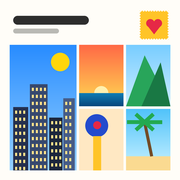
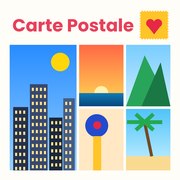
CARTE POSTALE : icône avec l'inscription Carte Postale
Claude-Session: https://claude.ai/code/session_0198c1DikNDwg2gGu6PoH5Qf

Changed region(s): [[0.0556, 0.0833, 0.75, 0.1944]]

diff --git a/carte-postale/index.html b/carte-postale/index.html
@@ -9,8 +9,8 @@
 <meta name="apple-mobile-web-app-status-bar-style" content="black-translucent">
 <meta name="apple-mobile-web-app-title" content="CARTE POSTALE">
 <meta name="theme-color" content="#131518">
-<link rel="apple-touch-icon" href="icon-180.png?v=3">
-<link rel="icon" type="image/png" href="icon-192.png?v=3">
+<link rel="apple-touch-icon" href="icon-180.png?v=4">
+<link rel="icon" type="image/png" href="icon-192.png?v=4">
 <link rel="manifest" href="manifest.json">
 <style>
 :root{--bg:#131518;--panel:#1c1f24;--panel2:#262a31;--line:#353b45;--text:#eaedf0;--muted:#98a1ac;--accent:#f0b429;--accent-ink:#1d1600;
@@ -90,7 +90,7 @@ section h2{font-size:12px;letter-spacing:.8px;text-transform:uppercase;color:var
 </header>
 
 <div id="empty">
-  <img src="icon-512.png?v=3" alt="">
+  <img src="icon-512.png?v=4" alt="">
   <h1>Carte postale</h1>
   <p>Choisis tes photos : l'appli les met en mosaïque, tu ajoutes un titre et le QR code de ton album, puis tu envoies la carte.</p>
   <button class="primary" id="pick0">Choisir des photos</button>

diff --git a/carte-postale/sw.js b/carte-postale/sw.js
@@ -1,5 +1,5 @@
 /* CARTE POSTALE — fonctionne aussi hors connexion une fois installée */
-const C='carte-postale-v7', F=['./','index.html','qr.js','fonts/poppins-700.woff','fonts/poppins-400.woff','fonts/inter-800.woff','fonts/inter-400.woff','fonts/lora-700.woff','fonts/lora-400.woff','manifest.json','icon-180.png','icon-192.png','icon-512.png'];
+const C='carte-postale-v8', F=['./','index.html','qr.js','fonts/poppins-700.woff','fonts/poppins-400.woff','fonts/inter-800.woff','fonts/inter-400.woff','fonts/lora-700.woff','fonts/lora-400.woff','manifest.json','icon-180.png','icon-192.png','icon-512.png'];
 self.addEventListener('install',e=>{ e.waitUntil(caches.open(C).then(c=>c.addAll(F))); self.skipWaiting(); });
 self.addEventListener('activate',e=>{ e.waitUntil(caches.keys().then(k=>Promise.all(k.filter(x=>x!==C).map(x=>caches.delete(x))))); self.clients.claim(); });
 self.addEventListener('fetch',e=>{ if(e.request.method!=='GET') return;
